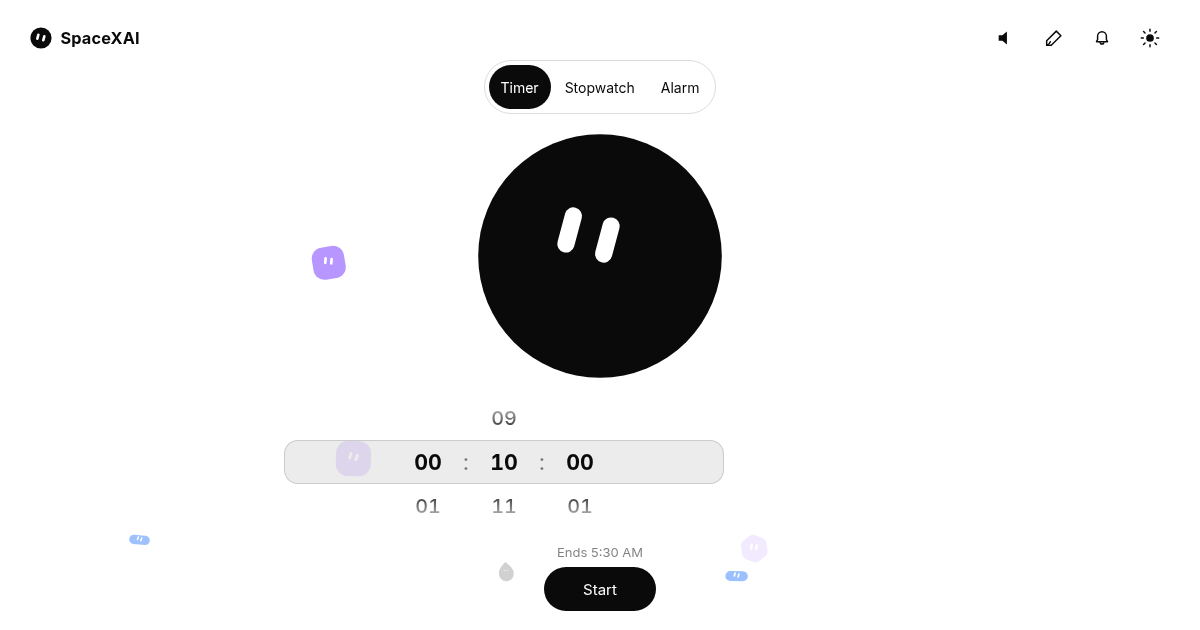
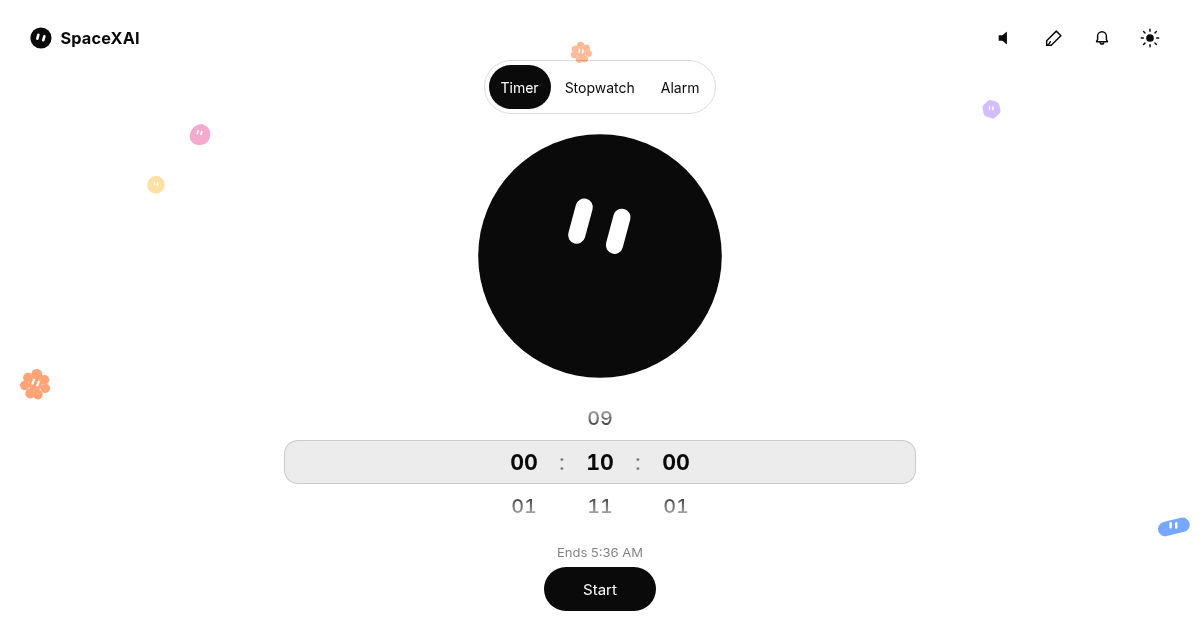
Center Timer and Alarm wheels horizontally

diff --git a/js/app.js b/js/app.js
@@ -1127,12 +1127,13 @@ function playMotion(before) {
       continue;
     }
     if (!shown && next.shown) {
-      el.animate(
+      const enter = el.animate(
         reduced
           ? [{ opacity: 0 }, { opacity: 1 }]
           : [{ opacity: 0, transform: "translateY(12px)" }, { opacity: 1, transform: "none" }],
         { duration, delay: enterDelay, easing: ease, fill: "both" },
       );
+      enter.onfinish = () => enter.cancel();
       enterDelay += 50;
       continue;
     }
@@ -1142,10 +1143,13 @@ function playMotion(before) {
     const sx = rect.width / next.rect.width;
     if (Math.abs(dx) < 0.5 && Math.abs(dy) < 0.5 && Math.abs(sx - 1) < 0.01) continue;
     el.style.transformOrigin = "center center";
-    el.animate(
+    const motion = el.animate(
       [{ transform: `translate(${dx}px, ${dy}px) scale(${sx})` }, { transform: "none" }],
       { duration, easing: ease, fill: "both" },
-    ).onfinish = () => {
+    );
+    motion.onfinish = () => {
+      motion.cancel();
+      el.style.transform = "";
       el.style.transformOrigin = "";
     };
   }

diff --git a/css/styles.css b/css/styles.css
@@ -301,6 +301,7 @@ button, input { font-family: inherit; color: inherit; }
   position: relative;
   flex: none;
   width: min(100%, 40rem);
+  margin-inline: auto;
   height: calc(var(--row) * var(--rows) + 2em);
 }
 
@@ -337,8 +338,9 @@ body[data-state="paused"] #clock {
   align-items: stretch;
   justify-content: center;
   gap: 2px;
-  width: min(100%, 28rem);
-  max-width: 100%;
+  width: auto;
+  max-width: none;
+  margin-inline: auto;
   user-select: none;
   touch-action: none;
 }
@@ -462,9 +464,10 @@ body[data-state="done"] .sub { opacity: 0; }
   display: flex;
   flex-direction: column;
   align-items: center;
-  gap: 18px;
-  width: min(100%, 440px);
+  gap: clamp(8px, 1.6dvh, 18px);
+  width: min(100%, 28rem);
   max-width: 100%;
+  margin-inline: auto;
   transition: opacity 0.28s ease, visibility 0.28s ease;
 }
 
